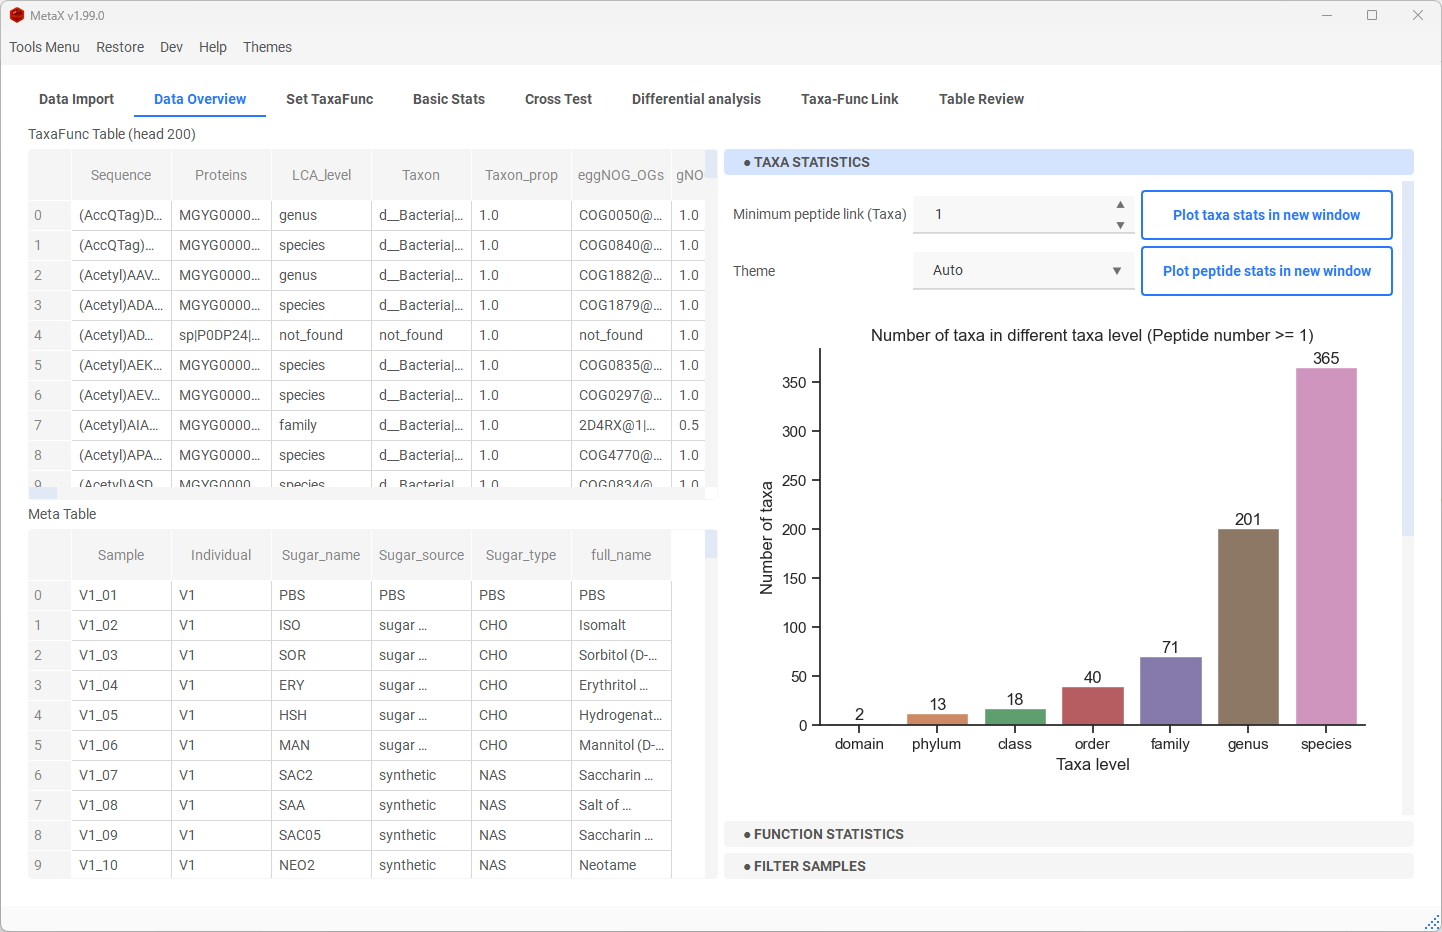
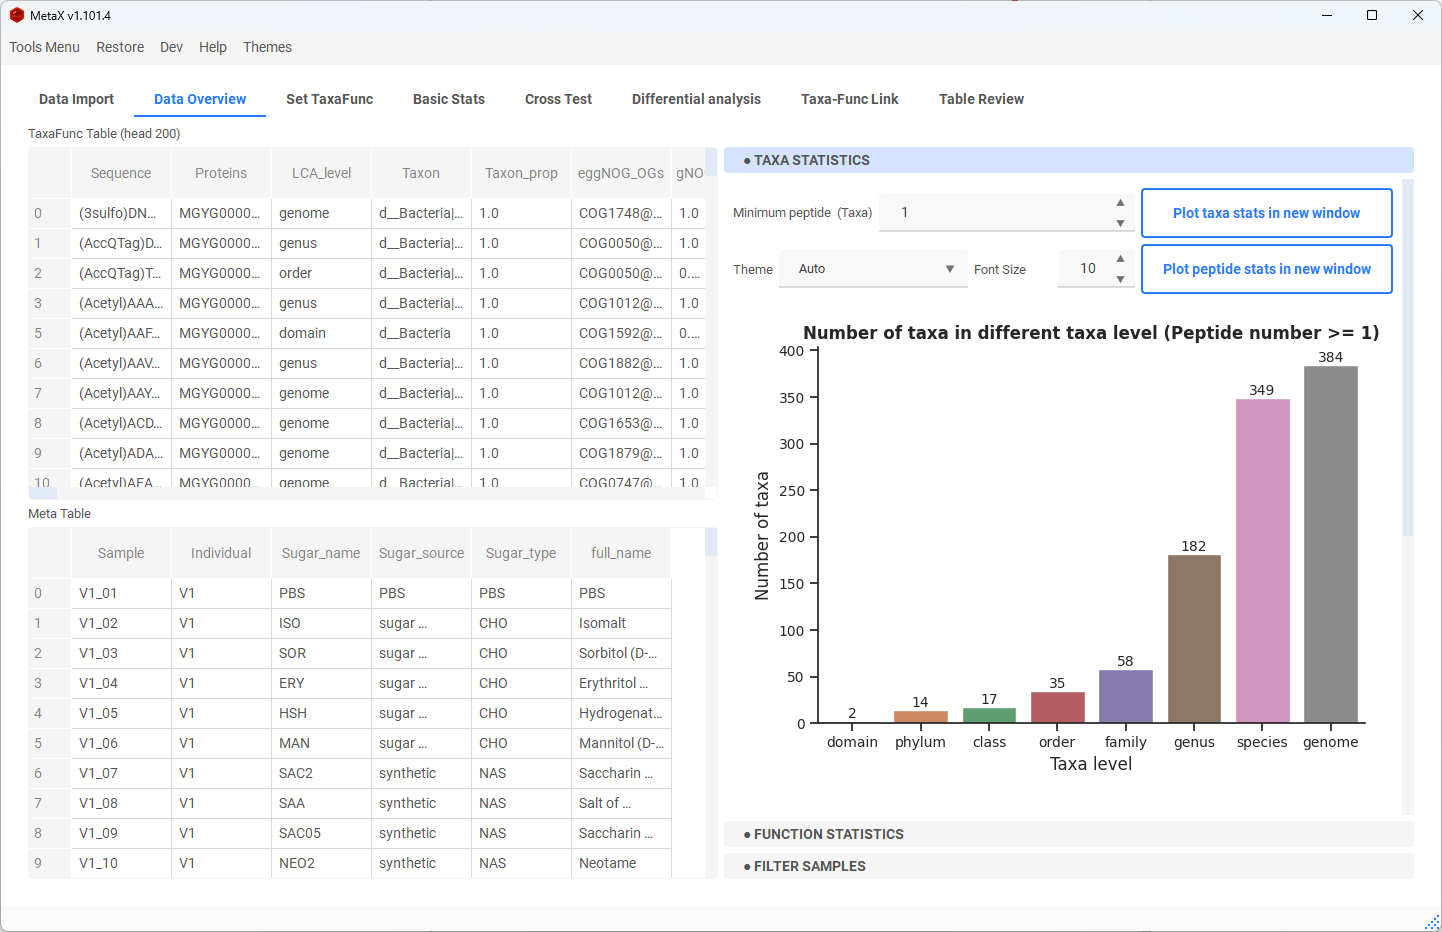
- Change: 1. Updated the Example data. 2. Updated the cookbook. - New: 1.Added a result table after runnning the Alpha Diversity and Beta Diversity. 2. Added a function to search items when add a list to plot.

diff --git a/utils/GUI.py b/utils/GUI.py
@@ -2800,12 +2800,13 @@ class MetaXGUI(Ui_MainWindow.Ui_metaX_main,QtStyleTools):
                 return False
                     
         # open a new window allowing user to input text with comma or new line
-        self.input_window = InputWindow(self.MainWindow)
+        self.input_window = InputWindow(self.MainWindow, input_mode=True)
         if str_list is not None:
             self.input_window.text_edit.setText('\n'.join(str_list))
         result = self.input_window.exec_()
         text_list = []
         if result == QDialog.Accepted:
+            selected_mode = self.input_window.get_selected_mode()
             text = self.input_window.text_edit.toPlainText()
             # print(text)
             if text is None or text == '':
@@ -2820,11 +2821,47 @@ class MetaXGUI(Ui_MainWindow.Ui_metaX_main,QtStyleTools):
         # check if the text_list is valid
         drop_list = []
         valid_text_list = []
-        for i in text_list:
-            if not check_if_in_list(i, df_type):
-                drop_list.append(i)
+        if selected_mode == "exact":
+            for i in text_list:
+                if not check_if_in_list(i, df_type):
+                    drop_list.append(i)
+                else:
+                    valid_text_list.append(i)
+        else:  # selected_mode == "search"
+            list_data = self.get_list_by_df_type(df_type)
+            search_results = []
+            for i in text_list:
+                # Search for matches where i is part of any item in list_data
+                matches = [item for item in list_data if i.lower() in item.lower()]
+                # Add all matches to search_results
+                search_results.extend(matches)
+            # Remove duplicates from search_results in case there are overlapping matches
+            search_results = list(set(search_results))
+
+            # show the search results in a new window, allowing user to select the valid items
+            if search_results:
+                self.input_window = InputWindow(self.MainWindow, input_mode=False)
+                self.input_window.text_edit.setText('\n'.join(search_results))
+                result = self.input_window.exec_()
+                if result == QDialog.Accepted:
+                    text = self.input_window.text_edit.toPlainText()
+                    if text:
+                        text_list = [i.strip() for i in text.split('\n') if i.strip() != '']
+                        text_list = list(set(text_list))  # Remove duplicates
+                    else:
+                        return None
+                else:
+                    return None
             else:
-                valid_text_list.append(i)
+                QMessageBox.warning(self.MainWindow, 'Warning', 'No valid item was found!')
+                return None
+            
+            valid_text_list = []
+            for i in text_list:
+                if check_if_in_list(i, df_type):
+                    valid_text_list.append(i)
+                else:
+                    drop_list.append(i)
 
         text_list = valid_text_list
                 
@@ -3721,18 +3758,20 @@ class MetaXGUI(Ui_MainWindow.Ui_metaX_main,QtStyleTools):
                 self.show_message('Alpha diversity is running, please wait...')
                 metric = self.comboBox_alpha_div_method.currentText()
                 plot_all_samples = self.checkBox_alpha_div_plot_all_samples.isChecked()
-                DiversityPlot(self.tfa).plot_alpha_diversity(metric= metric,  sample_list=sample_list, 
+                _ , aplha_diversity_df = DiversityPlot(self.tfa).plot_alpha_diversity(metric= metric,  sample_list=sample_list, 
                                                              width=width, height=height, font_size=font_size, 
                                                              plot_all_samples=plot_all_samples, theme=theme,
                                                              sub_meta = sub_meta, show_fliers = show_fliers)
+                self.update_table_dict('alpha_diversity', aplha_diversity_df)
             elif method == "beta_div":
                 self.show_message('Beta diversity is running, please wait...')
                 metric = self.comboBox_beta_div_method.currentText()
-                DiversityPlot(self.tfa).plot_beta_diversity(metric= metric,  sample_list=sample_list, width=width, height=height, 
+                _ , beta_diversity_distance_matrix = DiversityPlot(self.tfa).plot_beta_diversity(metric= metric,  sample_list=sample_list, width=width, height=height, 
                                                             font_size=font_size, font_transparency = font_transparency,
                                                             rename_sample = rename_sample,
                                                             show_label = show_label, adjust_label = adjust_label, 
                                                             theme=theme,sub_meta = sub_meta)
+                self.update_table_dict('beta_diversity_distance_matrix', beta_diversity_distance_matrix)
                                                             
 
             elif method == 'sunburst':

diff --git a/utils/MetaX_GUI/InputWindow.py b/utils/MetaX_GUI/InputWindow.py
@@ -1,11 +1,19 @@
-from PyQt5.QtWidgets import QPushButton, QDialog, QPushButton, QSizePolicy,QGridLayout,QTextEdit,QDesktopWidget
-
+from PyQt5.QtWidgets import QPushButton, QDialog, QSizePolicy, QGridLayout, QTextEdit, QDesktopWidget, QRadioButton, QButtonGroup
 
 class InputWindow(QDialog):
-    def __init__(self, parent=None):
+    def __init__(self, parent=None, input_mode=False):
         super(InputWindow, self).__init__(parent)
         self.text_edit = QTextEdit(self)
         self.text_edit.setSizePolicy(QSizePolicy.Expanding, QSizePolicy.Expanding)
+
+        self.exact_match_radio = QRadioButton("Exact Match", self)
+        self.search_match_radio = QRadioButton("Search Match", self)
+        self.exact_match_radio.setChecked(True) 
+
+        # 使用QButtonGroup来确保互斥
+        self.match_mode_group = QButtonGroup(self)
+        self.match_mode_group.addButton(self.exact_match_radio)
+        self.match_mode_group.addButton(self.search_match_radio)
 
         self.ok_button = QPushButton('OK', self)
         self.cancel_button = QPushButton('Cancel', self)
@@ -15,15 +23,37 @@ class InputWindow(QDialog):
 
         layout = QGridLayout()
         layout.addWidget(self.text_edit, 0, 0, 1, 2)  # 文本编辑器占据第0行，跨越0和1列
-        layout.addWidget(self.ok_button, 1, 0)  # 'OK'按钮在第1行，0列
-        layout.addWidget(self.cancel_button, 1, 1)  # 'Cancel'按钮在第1行，1列
+        if input_mode:  # 当input_mode为True时，添加单选按钮
+            layout.addWidget(self.exact_match_radio, 1, 0)  # "精准匹配"单选按钮
+            layout.addWidget(self.search_match_radio, 1, 1)  # "搜索匹配"单选按钮
+            button_row = 2  # 按钮行下移
+        else:
+            button_row = 1
+            # hide the radio buttons
+            self.exact_match_radio.hide()
+            self.search_match_radio.hide()
+        layout.addWidget(self.ok_button, button_row, 0)  # 'OK'按钮
+        layout.addWidget(self.cancel_button, button_row, 1)  # 'Cancel'按钮
 
         self.setLayout(layout)
         self.setSizePolicy(QSizePolicy.Expanding, QSizePolicy.Expanding)
 
-
-
-        
         self.setWindowTitle('Input List')
         self.screen = QDesktopWidget().screenGeometry()
         self.resize(int(self.screen.width() / 1.8), int(self.screen.height() / 1.8))
+
+    def get_selected_mode(self):
+        if self.exact_match_radio.isChecked():
+            return "exact"
+        elif self.search_match_radio.isChecked():
+            return "search"
+        else:
+            return None  
+
+if __name__ == '__main__':
+    import sys
+    from PyQt5.QtWidgets import QApplication
+    app = QApplication(sys.argv)
+    input_window = InputWindow(input_mode=True)  # 设置input_mode=True以显示单选按钮
+    input_window.show()
+    sys.exit(app.exec_())

diff --git a/utils/TaxaFuncPloter/diversity_plot.py b/utils/TaxaFuncPloter/diversity_plot.py
@@ -25,7 +25,10 @@ class DiversityPlot(object):
                              plot_all_samples:bool = False, theme:str = None, sub_meta:str = 'None',
                              show_fliers = True
                              ):
-        
+        '''
+        Calculate alpha diversity and plot boxplot\n
+        return: (fig, aplha_diversity_df)
+        '''
         if sample_list is None:
             sample_list = self.tfa.sample_list
         
@@ -134,7 +137,7 @@ class DiversityPlot(object):
             plt.gca().yaxis.set_major_formatter(ticker.FormatStrFormatter('%.2f'))
             plt.tight_layout()
             plt.show()
-            return fig
+            return fig, df
         except Exception as e:
             plt.close('all')
             raise e
@@ -153,7 +156,10 @@ class DiversityPlot(object):
                              width:int = 10, height:int = 8,  font_size:int = 10, 
                              font_transparency:float = 0.8, show_label:bool = False,rename_sample:bool = False,
                               adjust_label:bool = False , theme:str = None, sub_meta:str = "None"):
-
+        '''
+        Calculate beta diversity and plot PCoA plot
+        Return:(fig, distance_matrix)
+        '''
         if sample_list is None:
             sample_list = self.tfa.sample_list
         
@@ -184,7 +190,7 @@ class DiversityPlot(object):
             
             # bc_dm = beta_diversity("braycurtis", df, df.index)
             bc_dm = beta_diversity(metric, df, df.index)
-
+            distance_matrix = bc_dm.to_data_frame()
 
             pcoa_res = pcoa(bc_dm)
             if theme is not None and theme != 'Auto':
@@ -214,7 +220,7 @@ class DiversityPlot(object):
             plt.tight_layout()
             plt.show()
             
-            return fig
+            return fig, distance_matrix
         except Exception as e:
             plt.close('all')
             raise e

diff --git a/utils/MetaX_GUI/ExtendedComboBox.py b/utils/MetaX_GUI/ExtendedComboBox.py
@@ -83,7 +83,7 @@ class ExtendedComboBox(QComboBox):
         self.updateFilter()
 
         current_text = self.currentText().strip()
-        if not current_text or current_text in ["All Taxa", "All Functions", "All Taxa-Functions", "All Peptides"]:
+        if not current_text or current_text in ["All Taxa", "All Functions", "All Taxa-Functions", "All Peptides, All Proteins, All Items"]:
             print(f'ComboBox has special value "{current_text}". No items to search.')
             return
 
@@ -91,6 +91,6 @@ class ExtendedComboBox(QComboBox):
         for i in range(self.pFilterModel.rowCount()):
             index = self.pFilterModel.index(i, 0)
             item_text = self.pFilterModel.data(index, Qt.DisplayRole)
-            if item_text not in ["All Taxa", "All Functions", "All Taxa-Functions", "All Peptides"]:
+            if item_text not in ["All Taxa", "All Functions", "All Taxa-Functions", "All Peptides", "All Proteins", "All Items"]:
                 all_items.append(item_text)
         self.add_all_searched.emit(all_items)

diff --git a/utils/TaxaFuncPloter/bar_plot_js.py b/utils/TaxaFuncPloter/bar_plot_js.py
@@ -116,6 +116,7 @@ class BarPlot_js:
                 orient="vertical",
                 pos_top="5%",
                 border_width=0,
+                textstyle_opts=opts.TextStyleOpts(font_size=font_size),
             )
             if show_legend
             else opts.LegendOpts(is_show=False),

diff --git a/utils/version.py b/utils/version.py
@@ -1,1 +1,1 @@
-__version__ = '1.101.4'
+__version__ = '1.101.5'

diff --git a/Docs/MetaX_Cookbook.md b/Docs/MetaX_Cookbook.md
@@ -132,7 +132,7 @@ This is the guidebook for the <u>MetaX</u> **GUI Version**. If you are using the
 
   - **LCA Threshold**: Find the LCA with the proportion threshold for each peptide. The default is 1.00 (100%)
 
-    <img src="./MetaX_Cookbook.assets/LCA_prop.png" alt="LCA_prop"  />
+    <img src="./MetaX_Cookbook.assets/LCA_prop.png" alt="LCA_prop" style="zoom:50%;" />
 
 
 
@@ -172,7 +172,7 @@ Then, click **Go** to start the analysis.
 
 Data Overview includes some basic information about your data, such as the number of taxa, functions and proportions.
 
-We can set the threshold of linked peptides and the different them to plot the figure.
+We can set the threshold of linked peptides and the differences between them to plot the figure.
 
 <img src="./MetaX_Cookbook.assets/data_overview.png" alt="data_overview" style="zoom: 50%;" />
 

diff --git a/ChangeLog.md b/ChangeLog.md
@@ -453,3 +453,9 @@
 ### Changes:
 - Change: Changed the table names: taxa-func -> taxa-functions, and other names to Plural form.
 - Fix: Fixed the bug of update the table name in T-test and ANOVA part.
+
+# Version: 1.101.5
+## Date: 2024-03-13
+### Changes:
+- Change: 1. Updated the Example data. 2. Updated the cookbook.
+- New: 1.Added a result table after runnning the Alpha Diversity and Beta Diversity. 2. Added a function to search items when add a list to plot.
